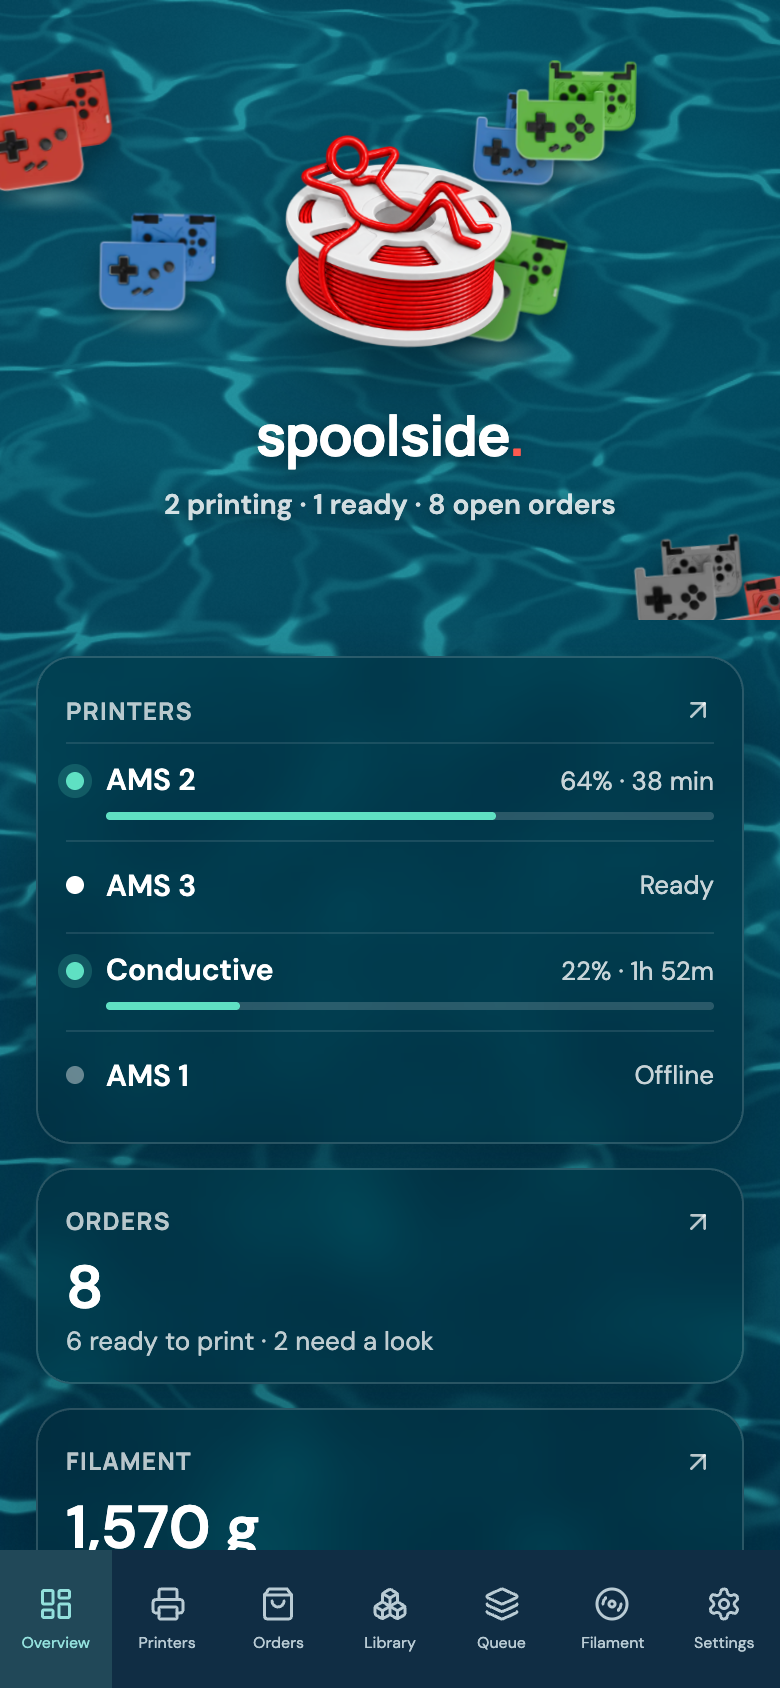
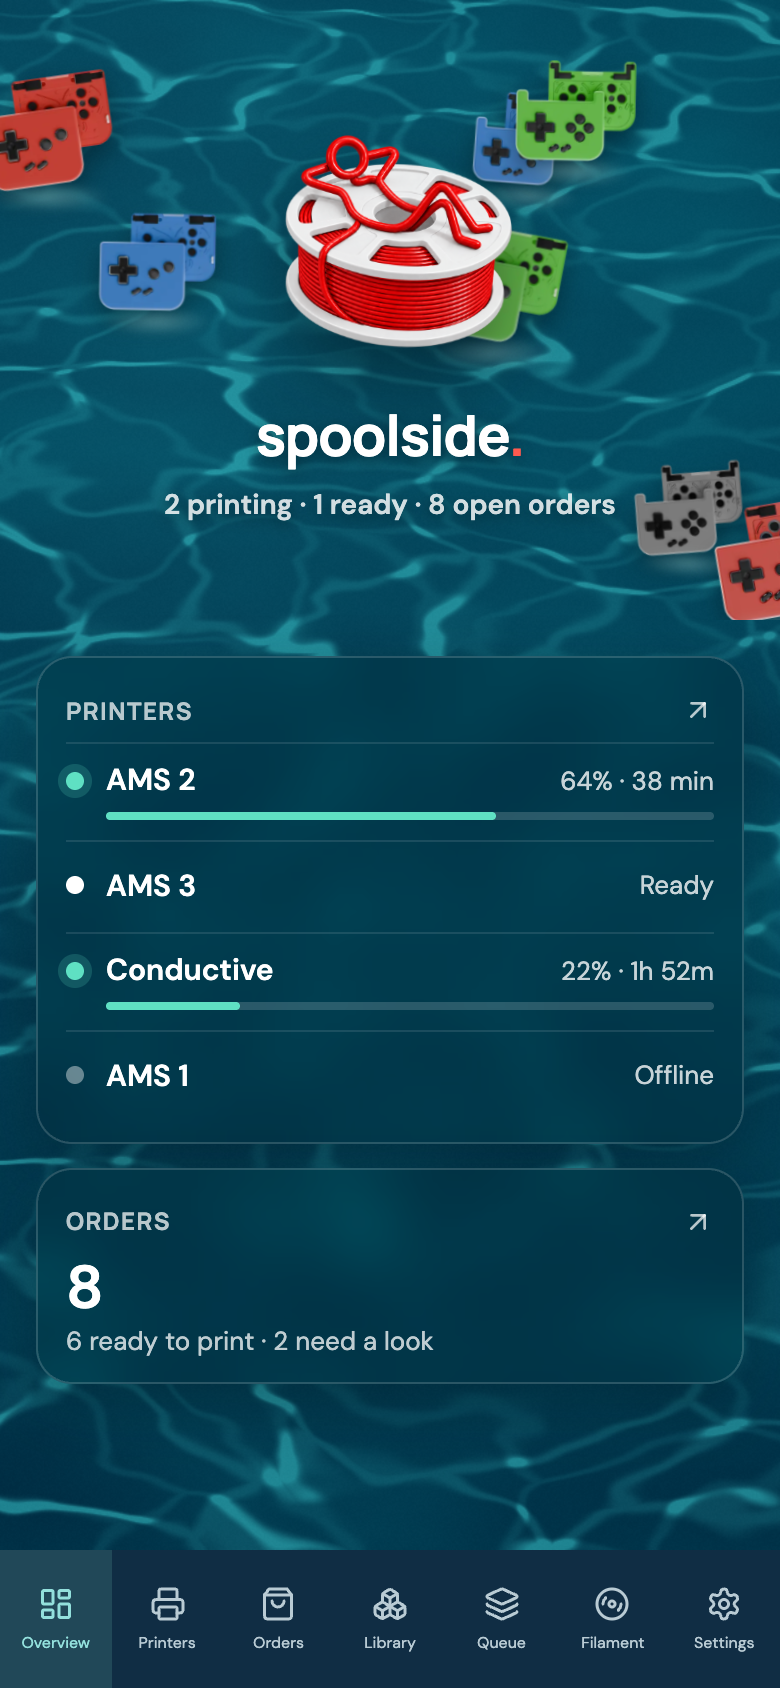
Drop the filament card from the phone home screen

diff --git a/src/WaterHome.tsx b/src/WaterHome.tsx
@@ -1,6 +1,6 @@
 import { ArrowUpRight } from "lucide-react";
 import { WaterBackground } from "./WaterBackground";
-import type { Machine, Spool } from "./live-workspace";
+import type { Machine } from "./live-workspace";
 import type { Order } from "./order-model";
 
 // Each open order floats as a little PlayCase: its faceplate photo, else the case photo.
@@ -48,12 +48,11 @@ function FloatingCases({ orders, openOrder }: { orders: Order[]; openOrder: (id:
   );
 }
 
-// The phone home screen: the spool floating on the pool, with the farm at a glance on frosted cards.
+// The phone home screen: the spool floating on the pool, with printers and orders at a glance on frosted cards.
 // Tap a printer for its details, or a card to open that page.
-export function WaterHome({ machines, orders, spools, loading, openPrinter, openOrder, go }: {
+export function WaterHome({ machines, orders, loading, openPrinter, openOrder, go }: {
   machines: Machine[];
   orders: Order[];
-  spools: Spool[];
   loading: boolean;
   openPrinter: (id: string) => void;
   openOrder: (id: string) => void;
@@ -61,7 +60,6 @@ export function WaterHome({ machines, orders, spools, loading, openPrinter, open
 }) {
   const printing = machines.filter((m) => m.state === "Printing").length,
     ready = machines.filter((m) => m.state === "Ready").length,
-    low = spools.filter((s) => s.remaining < 150),
     toPrint = orders.filter((o) => o.printReadiness?.status === "ready").length,
     toReview = orders.filter((o) => o.printReadiness && o.printReadiness.status !== "ready").length;
   const summary = loading
@@ -108,16 +106,6 @@ export function WaterHome({ machines, orders, spools, loading, openPrinter, open
           <strong>{loading ? "—" : orders.length}</strong>
           <span className="home-quiet">
             {loading ? "Loading orders…" : orders.length === 0 ? "Nothing open. Enjoy the pool." : [toPrint && `${toPrint} ready to print`, toReview && `${toReview} ${toReview === 1 ? "needs" : "need"} a look`].filter(Boolean).join(" · ") || "open"}
-          </span>
-        </button>
-        <button className="home-card home-stat" onClick={() => go("Filament")}>
-          <span className="home-card-head">
-            <h2>Filament</h2>
-            <ArrowUpRight size={16} />
-          </span>
-          <strong>{spools.reduce((n, s) => n + s.remaining, 0).toLocaleString()} g</strong>
-          <span className="home-quiet">
-            {low.length ? `Running low: ${low.map((s) => s.name).join(", ")}` : spools.length ? "All spools stocked" : "No filament recorded"}
           </span>
         </button>
       </div>

diff --git a/src/main.tsx b/src/main.tsx
@@ -556,7 +556,7 @@ function App() {
       </aside>
       <main>
         {!wideScreen && tab === "Overview" ? (
-          <WaterHome machines={machines} orders={overviewOrders} spools={spools} loading={remote && live.loading} openPrinter={setSelected} openOrder={(id) => { setFocusedOrder(id); setTab("Orders"); }} go={(t) => { setSelected(null); setFocusedOrder(null); setTab(t); }} />
+          <WaterHome machines={machines} orders={overviewOrders} loading={remote && live.loading} openPrinter={setSelected} openOrder={(id) => { setFocusedOrder(id); setTab("Orders"); }} go={(t) => { setSelected(null); setFocusedOrder(null); setTab(t); }} />
         ) : (
         <div className="main-content">
           <div className="page-heading">

diff --git a/src/style.css b/src/style.css
@@ -2393,6 +2393,5 @@ footer .tiny-dot {
   .home-mark, .home-card { animation: home-rise 0.7s cubic-bezier(0.2, 0.8, 0.2, 1) both; }
   .home-content > :nth-child(2) { animation-delay: 0.06s; }
   .home-content > :nth-child(3) { animation-delay: 0.12s; }
-  .home-content > :nth-child(4) { animation-delay: 0.18s; }
 }
 @keyframes home-rise { from { opacity: 0; transform: translateY(14px); } to { opacity: 1; transform: none; } }
